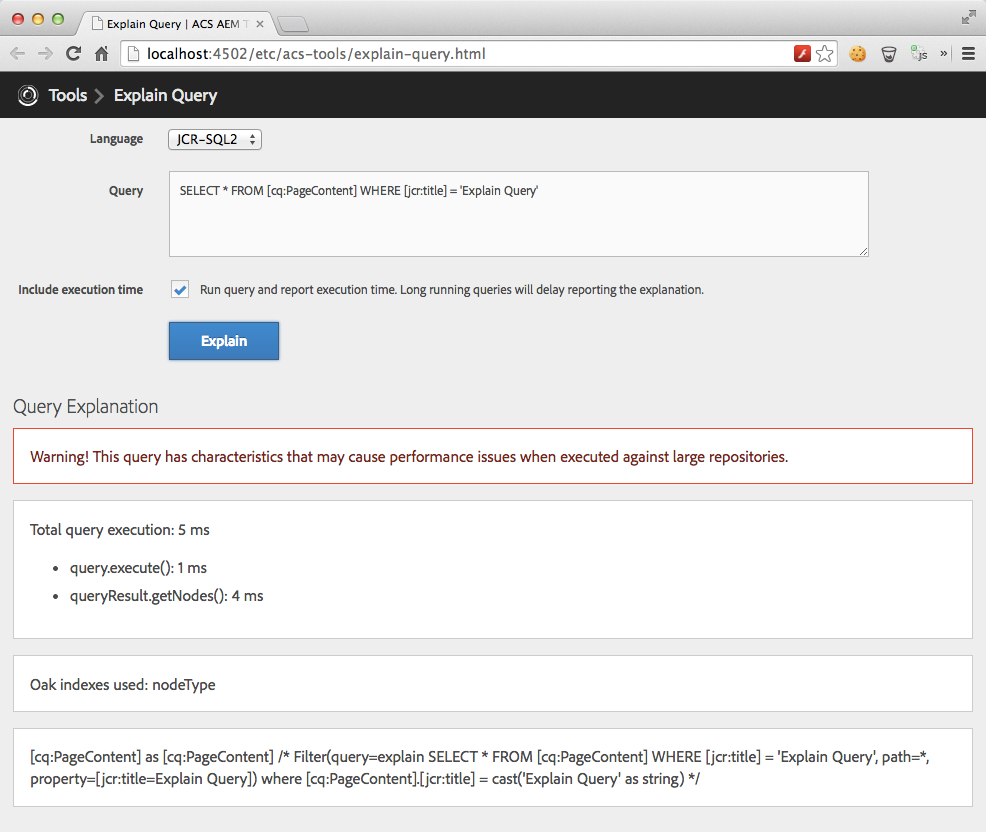
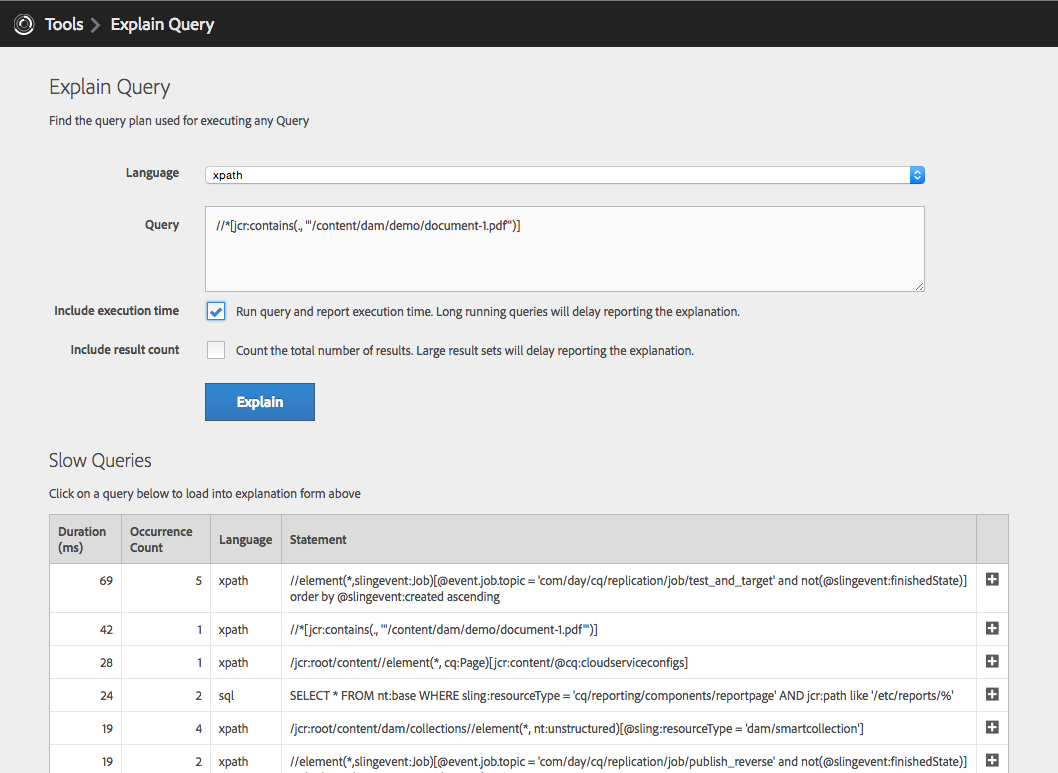
Explain Query - 0.0.22 documentation

diff --git a/_posts/acs-aem-tools/features/2014-08-28-explain-query.md b/_posts/acs-aem-tools/features/2014-08-28-explain-query.md
@@ -23,9 +23,18 @@ Explain Query is a tool that explains how Oak is executing a query. For any give
 
 ![Explain Query]({{ site.data.acs-aem-tools.baseurl }}/images/explain-query/screenshot.png)
 
-Explain Query has several features:
 
-* Xpath, JCR-SQL and JCR-SQL2 support
+#### Explain Query Results 
+
+![Explain Query - Results]({{ site.data.acs-aem-tools.baseurl }}/images/explain-query/results.png)
+
+#### Download as JSON
+
+![Explain Query - JSON Results]({{ site.data.acs-aem-tools.baseurl }}/images/explain-query/results-json.png)
+
+### Explain Query's features
+
+* Xpath, JCR-SQL and JCR-SQL2 and (in v0.0.22) QueryBuilder map support
 * Option to execute the provided query and report the acutal query execution time
 * Slow query detection; Explain query will warn you about potentially slow queries. 
 * Reports the Oak indexed used to execute the query
@@ -33,5 +42,6 @@ Explain Query has several features:
 * Provides click-to-load list of Slow and Popular queries
 * Oak Query Plan log messages (Since v0.0.18)
   * When using Oak 1.0.8 and below, log messages will display however they may be unnecessarily verbose.
+* Export results to JSON
 
 ![Explain Query - Slow and Popular Queries]({{ site.data.acs-aem-tools.baseurl }}/images/explain-query/slow-and-popular.png)
